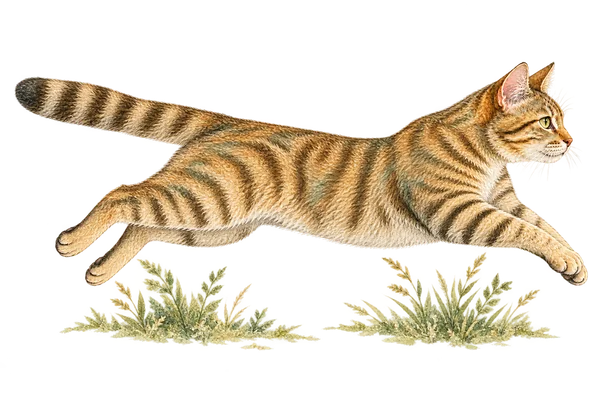
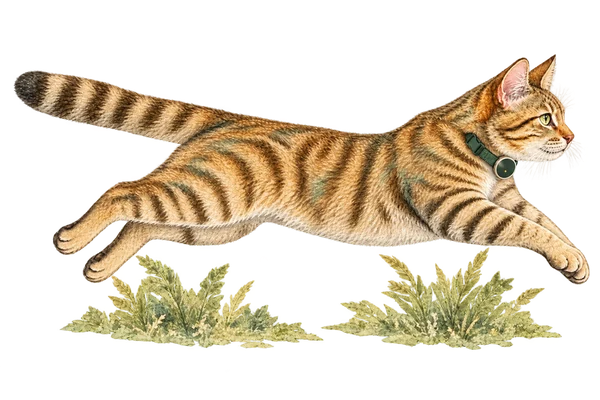
Show collar tags consistently, fix mobile evidence, and clarify pre-pounce research

Changed region(s): [[0.0, 0.12, 0.99, 0.9]]

diff --git a/index.html b/index.html
@@ -4,7 +4,7 @@
 <meta charset="utf-8">
 <meta name="viewport" content="width=device-width, initial-scale=1">
 <title>Pouncer — A Smart Cat Collar Built to Warn Wildlife Before the Pounce</title>
-<meta name="description" content="Pouncer is a smart cat collar for owners who want the birds, voles and shrews in their garden to survive. A small module on the collar your cat already wears, being built to read the stalk-and-launch signature and sound one short warning at the moment of intent — silent the rest of the time.">
+<meta name="description" content="Pouncer is a smart cat collar for owners who want the birds, voles and shrews in their garden to survive. A small module on the collar your cat already wears, being developed to recognise pre-pounce movement and give wildlife an early warning during the stalk. Detection and wildlife benefit still need testing.">
 <link rel="canonical" href="https://pouncer.uk/">
 <meta name="theme-color" content="#243f32">
 
@@ -94,52 +94,52 @@
     <div class="wrap">
       <p class="eyebrow">The idea, in four movements</p><h2>Quiet by design.</h2>
       <p class="section-lede">
-        Observe. Recognise the stalk. Confirm the launch. Then settle. Pouncer is being designed
-        to read a sequence of movements, rather than react to every jump or playful tumble.
+        The opportunity starts before the leap. Pouncer is being developed to recognise the build-up
+        to a pounce and give wildlife an early warning during the stalk — then return to quiet.
       </p>
 
       <ol class="steps">
         <li class="step">
-          <img class="cat-art" src="assets/img/cat-observe.webp" width="600" height="400" alt="A seated tabby watching attentively" loading="lazy">
+          <img class="cat-art" src="assets/img/cat-observe.webp" width="600" height="400" alt="A seated tabby watching attentively, wearing a collar with a round Pouncer tag" loading="lazy">
           <span class="step-num">1</span>
           <h3>Observe</h3>
           <p>
-            Continuous low-power sampling on the collar. Ordinary movement stays below the
-            confidence threshold and produces no output at all.
+            The collar records movement. The aim is to leave walking, resting and everyday
+            activity quiet while looking for a possible hunting sequence.
           </p>
         </li>
         <li class="step">
-          <img class="cat-art" src="assets/img/cat-stalk.webp" width="600" height="400" alt="A tabby crouching low with its head forward" loading="lazy">
+          <img class="cat-art" src="assets/img/cat-stalk.webp" width="600" height="400" alt="A tabby crouching low with its head forward, wearing a collar with a round Pouncer tag" loading="lazy">
           <span class="step-num">2</span>
-          <h3>Stalk detected</h3>
+          <h3>Stalk &amp; early cue</h3>
           <p>
-            Sustained low-velocity stalking posture raises confidence. At this stage Pouncer can
-            give a brief visual pulse only — no sound.
+            The research goal is to recognise preparation for a pounce and give a brief warning
+            before launch. A visual pulse is one option; cue type and timing need testing.
           </p>
         </li>
         <li class="step">
-          <img class="cat-art" src="assets/img/cat-launch.webp" width="600" height="400" alt="A tabby springing forward with its paws extended" loading="lazy">
+          <img class="cat-art" src="assets/img/cat-launch.webp" width="600" height="400" alt="A tabby springing forward with its paws extended, wearing a collar with a round Pouncer tag" loading="lazy">
           <span class="step-num">3</span>
-          <h3>Launch confirmed</h3>
+          <h3>Follow the pounce</h3>
           <p>
-            Launch acceleration on top of a confirmed stalk triggers one short, forward-directed
-            chirp — the head start the whole design is aiming at.
+            Record what follows the early signs. Did the cat launch, pause or walk away?
+            Comparing these sequences will help test detection and warning timing.
           </p>
         </li>
         <li class="step">
-          <img class="cat-art" src="assets/img/cat-settle.webp" width="600" height="400" alt="A tabby resting with its paws tucked and tail curled" loading="lazy">
+          <img class="cat-art" src="assets/img/cat-settle.webp" width="600" height="400" alt="A tabby resting with its paws tucked and tail curled, wearing a collar with a round Pouncer tag" loading="lazy">
           <span class="step-num">4</span>
           <h3>Cooldown &amp; log</h3>
           <p>
-            Pouncer then stays acoustically quiet until motion settles and fresh evidence
-            appears. Every candidate — alerted or suppressed — is logged for review.
+            The design includes a quiet cooldown to limit repeated cues, with candidate events
+            logged for review and future improvement.
           </p>
         </li>
       </ol>
 
       <p class="callout">
         <strong>Design intent, not a demonstrated outcome.</strong> The classifier is still in development.
-        Testing must establish whether the cue gives wildlife a useful chance to react. <a href="#status">Follow the development</a>.
+        Early recordings will test whether preparatory movements — including the familiar hind-leg “wobble” — can be detected from the collar before launch. This is a candidate signal, not a proven trigger. Detection, false alerts and benefit to wildlife all need testing. <a href="#status">Follow the development</a>.
       </p>
     </div>
   </section>
@@ -219,7 +219,7 @@
       </p>
 
       <div class="table-scroll">
-        <table class="evidence-table">
+        <table class="evidence-table" role="table">
           <caption class="sr-only">
             Change in prey brought home by intervention, Cecchetti et al. (2021)
           </caption>
@@ -227,37 +227,37 @@
             <tr><th scope="col">Intervention</th><th scope="col">Change in prey brought home</th></tr>
           </thead>
           <tbody>
-            <tr>
-              <th scope="row">High-meat-content, grain-free food</th>
-              <td>
+            <tr role="row">
+              <th role="rowheader" scope="row">High-meat-content, grain-free food</th>
+              <td role="cell">
                 <div class="dbar" aria-hidden="true"><span class="dbar-fill dbar-neg" style="width:40%"></span></div>
                 <span class="delta delta-down">−36%</span> overall
               </td>
             </tr>
-            <tr>
-              <th scope="row">5–10 minutes of daily object play</th>
-              <td>
+            <tr role="row">
+              <th role="rowheader" scope="row">5–10 minutes of daily object play</th>
+              <td role="cell">
                 <div class="dbar" aria-hidden="true"><span class="dbar-fill dbar-neg" style="width:27.8%"></span></div>
                 <span class="delta delta-down">−25%</span> overall
               </td>
             </tr>
-            <tr>
-              <th scope="row">Brightly coloured collar cover (visual)</th>
-              <td>
+            <tr role="row">
+              <th role="rowheader" scope="row">Brightly coloured collar cover (visual)</th>
+              <td role="cell">
                 <div class="dbar" aria-hidden="true"><span class="dbar-fill dbar-neg" style="width:46.7%"></span></div>
                 <span class="delta delta-down">−42%</span> birds; no discernible effect on mammals
               </td>
             </tr>
-            <tr>
-              <th scope="row">Cat bells</th>
-              <td>
+            <tr role="row">
+              <th role="rowheader" scope="row">Cat bells</th>
+              <td role="cell">
                 <div class="dbar" aria-hidden="true"><span class="dbar-zero"></span></div>
                 <span class="delta delta-flat">No discernible effect in this trial</span>
               </td>
             </tr>
-            <tr>
-              <th scope="row">Puzzle feeders</th>
-              <td>
+            <tr role="row">
+              <th role="rowheader" scope="row">Puzzle feeders</th>
+              <td role="cell">
                 <div class="dbar" aria-hidden="true"><span class="dbar-fill dbar-pos" style="width:36.7%"></span></div>
                 <span class="delta delta-up">+33%</span> — worse
               </td>
@@ -275,7 +275,7 @@
       <div class="verdict">
         <h3>What the bell evidence tells us</h3>
         <p>The table reports one trial, not the whole literature. Bell results are mixed: some studies found fewer prey brought home, while the 2021 trial above found no discernible effect. <a href="#source-bells">See the wider evidence</a>.</p>
-        <p>A mechanical bell responds to movement; it does not classify behaviour. Pouncer is being developed to recognise a stalk-and-launch sequence and trigger a brief cue. That difference is a design hypothesis, not evidence of better timing or fewer animals caught.</p>
+        <p>A mechanical bell responds to movement; it does not classify behaviour. Pouncer is being developed to recognise pre-pounce movement and give a brief cue during the stalk, before launch. That difference is a design hypothesis, not evidence of better timing or fewer animals caught.</p>
         <p class="verdict-foot">Pouncer's detection timing, false alerts, cat welfare and wildlife outcomes all need testing.</p>
       </div>
       <details class="research-details"><summary>Why birds and small mammals? The UK research</summary><p>A 2003 study estimated roughly 92 million prey items brought home by British cats between April and August. These are historical estimates of prey returned, not a measure of current population decline. The RSPB finds no clear evidence that cat predation drives UK bird declines.</p><figure class="viz viz-root">
@@ -340,9 +340,9 @@
         <li>
           <span class="status-tag status-tag-wip">In progress</span>
           <p>
-            Warning lead time. Measuring how long a real pounce lasts and how fast the collar can
-            decide — because a cue that lands with the strike has warned nobody. If we cannot beat
-            the clock, the device logs the event and makes no sound.
+            Pre-pounce detection and warning lead time. Early data collection will pair collar motion
+            with observed behaviour to test whether stalking and preparatory hind-leg movements
+            offer a reliable early signal. Cue type, timing and false-alert limits remain to be established.
           </p>
         </li>
         <li>
@@ -428,11 +428,18 @@
       </details>
 
       <details>
+        <summary>Could the pre-pounce “wobble” give an earlier warning?</summary>
+        <p>That is one of the signals we want to investigate. The question is whether preparatory hind-leg movements produce a recognisable pattern at the collar, early enough to give a useful cue. We need synchronised video and motion data, including play and abandoned stalks, before claiming that they do.</p>
+        <p><a href="https://www.nature.com/articles/s41598-021-92896-4" rel="noopener">Research using harness-mounted accelerometers</a> has classified cat behaviours. It does not establish pre-pounce prediction by Pouncer or show that a warning will protect wildlife.</p>
+      </details>
+
+      <details>
         <summary>What stops it firing during play?</summary>
         <p>
-          A single hard acceleration is never enough. The classifier requires a stalk phase, then
-          launch features, then a confirmation window — followed by a cooldown that needs fresh
-          evidence before it can sound again.
+          That remains an open testing question: play can include stalking and pouncing too.
+          We will compare hunting, play and ordinary movement in recorded data, including
+          sequences that do not end in a pounce. Confidence thresholds and cooldowns are design
+          tools, not yet proof that false alerts have been solved.
         </p>
       </details>
 
@@ -527,7 +534,7 @@
   </section>
 
   <section class="section section-updates" id="updates">
-    <div class="updates-photo"><img src="assets/img/resting-cat-1280.webp" srcset="assets/img/resting-cat-640.webp 640w, assets/img/resting-cat-1280.webp 1280w" sizes="(max-width: 880px) 100vw, 50vw" width="1280" height="720" loading="lazy" alt="A relaxed tabby resting on a garden bench"></div>
+    <div class="updates-photo"><img src="assets/img/resting-cat-1280.webp" srcset="assets/img/resting-cat-640.webp 640w, assets/img/resting-cat-1280.webp 1280w" sizes="(max-width: 880px) 100vw, 50vw" width="1280" height="720" loading="lazy" alt="Concept visual of a relaxed tabby wearing a collar with a round Pouncer tag on a garden bench"></div>
     <div class="wrap narrow">
       <h2>Be part of what comes next.</h2>
       <p class="section-lede">

diff --git a/assets/css/styles.css b/assets/css/styles.css
@@ -427,7 +427,7 @@ img { max-width: 100%; height: auto; }
 .table-scroll { overflow-x: auto; margin-top: 30px; }
 
 .evidence-table {
-  width: 100%; border-collapse: collapse; min-width: 480px;
+  width: 100%; border-collapse: collapse; min-width: 0;
   background: var(--surface); border: 1px solid var(--line); border-radius: var(--radius);
 }
 .evidence-table th, .evidence-table td {
@@ -472,7 +472,7 @@ img { max-width: 100%; height: auto; }
 /* Diverging bar: zero is the centre, data-ends round away from it. */
 .dbar {
   position: relative; height: 9px; margin: 0 0 9px;
-  background: var(--surface-alt); border-radius: 5px; min-width: 170px;
+  background: var(--surface-alt); border-radius: 5px; min-width: 0;
 }
 .dbar::before {
   content: ""; position: absolute; left: 50%; top: -4px; bottom: -4px;
@@ -824,4 +824,16 @@ img { max-width: 100%; height: auto; }
  .module-caption { font-size:.92rem; }
  .sources { columns:1; }
  .section-updates .updates-photo { height:220px; }
+}
+
+/* Each intervention and its result stay together on narrow screens. */
+@media(max-width:600px) {
+ .evidence-table { display:block; border:0; background:transparent; }
+ .evidence-table thead { position:absolute; width:1px; height:1px; overflow:hidden; clip-path:inset(50%); }
+ .evidence-table tbody { display:grid; gap:12px; }
+ .evidence-table tbody tr { display:block; border:1px solid var(--line); border-radius:var(--radius); background:var(--surface); padding:18px; }
+ .evidence-table tbody th,.evidence-table tbody td { display:block; width:auto; border:0; padding:0; }
+ .evidence-table tbody th { margin-bottom:16px; }
+ .evidence-table tbody td { font-size:.92rem; }
+ .evidence-table .dbar { margin-bottom:12px; }
 }

diff --git a/assets/3d/viewer.js b/assets/3d/viewer.js
@@ -60,7 +60,7 @@ export async function mountViewer(el, opts = {}) {
   environment.dispose();
 
   const camera = new THREE.PerspectiveCamera(32, 1, 0.1, 100);
-  camera.position.set(1.22, 0.58, 1.52);
+  camera.position.set(0, 1.4, 1.6);
 
   // Studio rig: a broad key, a soft fill to keep the shadow side readable, and
   // two rims to put a defined edge on the bezel, which is what sells machined
@@ -155,7 +155,7 @@ export async function mountViewer(el, opts = {}) {
     setExploded(v) { t = Math.max(0, Math.min(1, v)); applyExplode(); },
     getExploded() { return t; },
     setAutoRotate(v) { controls.autoRotate = !!v; },
-    resetView() { camera.position.set(1.22, 0.58, 1.52); controls.target.set(0,0,0); controls.update(); },
+    resetView() { camera.position.set(0, 1.4, 1.6); controls.target.set(0,0,0); controls.update(); },
     partLabels() { return parts.map((p) => ({ name: p.name, label: p.userData.label })); },
     renderer, scene, camera, controls, module,
     dispose() {

diff --git a/preorder/index.html b/preorder/index.html
@@ -132,7 +132,7 @@
       <div class="reassure">
         <h2>Before you sign up, read the honest bit</h2>
         <p>
-          Pouncer is being developed to recognise a pounce and sound a brief cue. Its effect on wildlife has not yet been demonstrated. Results for existing bell collars vary across studies, and we do not claim that Pouncer outperforms them.
+          Pouncer is being developed to recognise pre-pounce movement and give a brief warning during the stalk. Its effect on wildlife has not yet been demonstrated. Results for existing bell collars vary across studies, and we do not claim that Pouncer outperforms them.
         </p>
         <p>Diet and daily play have supporting evidence from a controlled trial. Pouncer is intended to complement care for your cat, not replace it. We will publish our trial results whichever way they fall.</p>
         <p class="reassure-links">

diff --git a/assets/3d/model.js b/assets/3d/model.js
@@ -21,7 +21,7 @@ export const PALETTE = {
   board:  0x17402f,  // circuit board, desaturated
   cell:   0xb9bfc8,  // cell
   back:   0x253e30,  // caseback
-  strap:  0x81765d,  // natural webbing
+  strap:  0x345340,  // forest-green collar webbing
 };
 
 /** One layer of the stack: mesh, plus the height it settles at when exploded. */
@@ -135,7 +135,7 @@ export function buildModule() {
 /** Strap passing behind the module. Decorative context, not part of the stack. */
 export function buildStrap() {
   const mat = new THREE.MeshStandardMaterial({ color: PALETTE.strap, metalness: 0.0, roughness: 0.85 });
-  const strap = new THREE.Mesh(new THREE.BoxGeometry(0.44, 0.030, 3.2), mat);
+  const strap = new THREE.Mesh(new THREE.BoxGeometry(3.2, 0.030, 0.44), mat);
   strap.position.y = -0.070;
   strap.name = 'strap';
   return strap;
